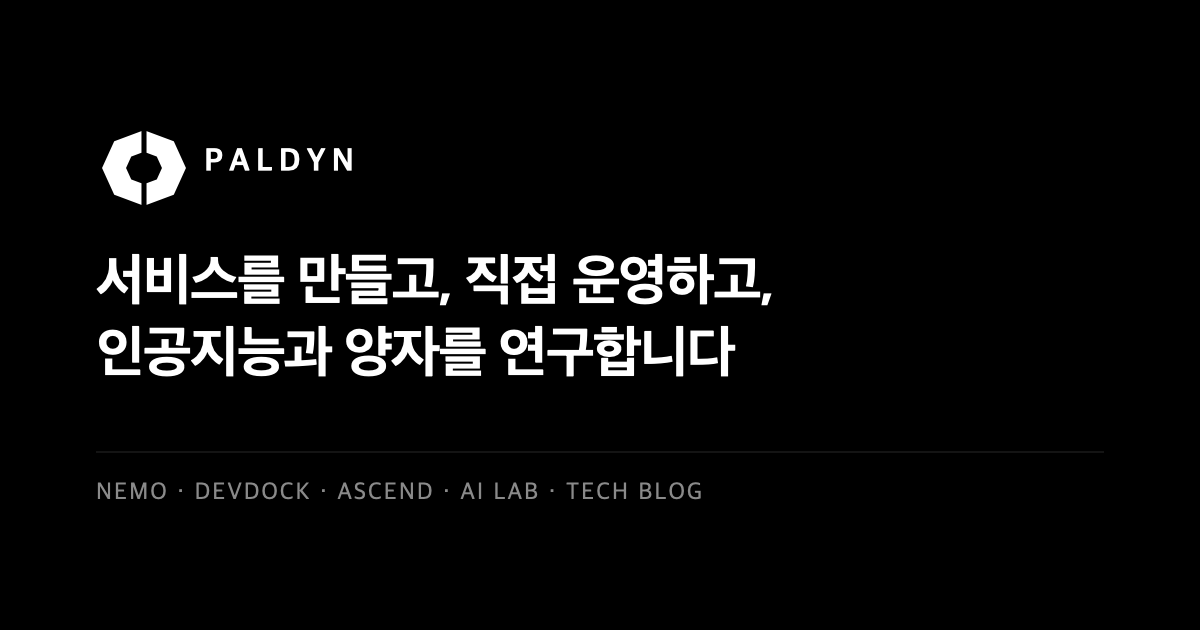
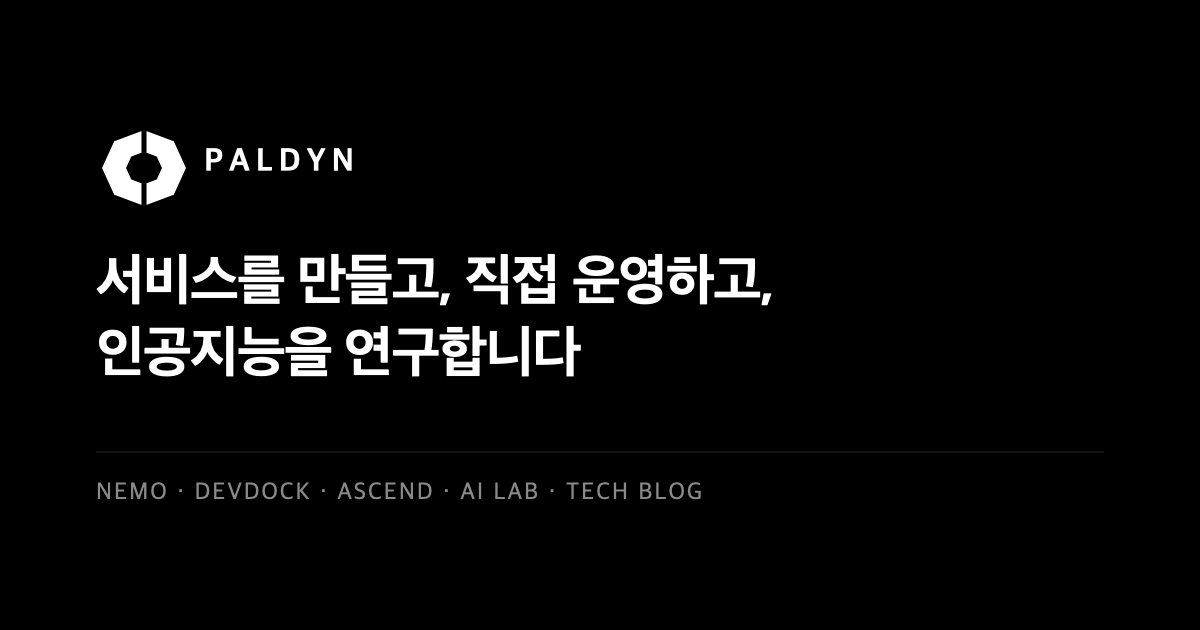
양자 언급 삭제 · nav에 AI Lab·Tech Blog 바로가기 · 스크롤 모션 복원 · 정렬선 통일
양자
- 아직 하는 일이 아니므로 title·og·twitter·JSON-LD·h1·회사 문단·팩트시트에서 전량 삭제.
  '보고 있는 주제' 블록은 항목이 인공지능 하나만 남아 목록이 성립하지 않으므로 블록째 제거.
  og.png도 새 문장으로 재생성

nav
- AI Lab ↗ / Tech Blog ↗ 를 nav에 직접 노출. 섹션 링크 4개와 성격이 다르므로
  1px 구분자 뒤에 외부 링크 그룹으로 분리

모션 — 로드 1회에서 스크롤 스크럽으로
- 배너: 절마다 클립 창을 만들고 그 안에서 밀려 올라온다(lineUp 720ms, 절 간 90ms 시차).
  받침 있는 한글은 em 박스를 꽉 채우므로 padding-block .14em / margin-block -.14em으로
  클립 창만 넓히고 레이아웃은 유지한다. 라벨 아래 전폭 1px 규칙선이 900ms에 걸쳐 그어진다
- 배너는 스크롤하면 -40px 물러나며 0.55로 가라앉는다(scroll(root block), 0→70svh)
- 인덱스 5행: 경계선이 그어지고(axisOut) 내용이 올라온다(revealSm). 되감으면 되감긴다
- 서비스 밴드: 상단 경계선이 먼저 나타나고 타일이 28px 아래에서 0.97 배율로 올라온다
- 팩트시트 6행도 스크럽 리빌
- 총 91개 애니메이션 중 82개가 스크롤·뷰 타임라인 구동이다(문서 타임라인 아님)

정렬
- 라벨의 브랜드 틱이 인라인이라 'PALDYN' 텍스트만 11px 밀려 있었다. 틱을 마진 밖으로
  걸어(margin-left -11px) 텍스트가 h1과 같은 x에서 시작하게 했다
- 실측 결과 5개 섹션 전부 — 라벨·제목·본문·인덱스·채널명 — 이 x=73 하나의 축에 선다

Changed region(s): [[0.2158, 0.5127, 0.6167, 0.6032]]

diff --git a/index.html b/index.html
@@ -3,7 +3,7 @@
 <head>
   <meta charset="UTF-8">
   <meta name="viewport" content="width=device-width, initial-scale=1.0">
-  <title>PALDYN — 서비스를 만들고, 직접 운영하고, 인공지능과 양자를 연구합니다</title>
+  <title>PALDYN — 서비스를 만들고, 직접 운영하고, 인공지능을 연구합니다</title>
   <meta name="description" content="팔딘이 직접 만들어 운영하는 다섯 개 — Nemo(노트·저널), DevDock(개발자 도구), Ascend(운동 기록, 비공개 테스트), AI Lab, Tech Blog.">
   <link rel="canonical" href="https://paldyn.com/">
   <meta name="theme-color" content="#ffffff" media="(prefers-color-scheme: light)">
@@ -12,14 +12,14 @@
   <meta property="og:type" content="website">
   <meta property="og:site_name" content="PALDYN">
   <meta property="og:url" content="https://paldyn.com/">
-  <meta property="og:title" content="PALDYN — 서비스를 만들고, 직접 운영하고, 인공지능과 양자를 연구합니다">
+  <meta property="og:title" content="PALDYN — 서비스를 만들고, 직접 운영하고, 인공지능을 연구합니다">
   <meta property="og:description" content="Nemo · DevDock · Ascend · AI Lab · Tech Blog. 팔딘이 직접 만들어 운영합니다.">
   <meta property="og:image" content="https://paldyn.com/assets/og.png">
   <meta property="og:image:width" content="1200">
   <meta property="og:image:height" content="630">
   <meta property="og:locale" content="ko_KR">
   <meta name="twitter:card" content="summary_large_image">
-  <meta name="twitter:title" content="PALDYN — 서비스를 만들고, 직접 운영하고, 인공지능과 양자를 연구합니다">
+  <meta name="twitter:title" content="PALDYN — 서비스를 만들고, 직접 운영하고, 인공지능을 연구합니다">
   <meta name="twitter:description" content="Nemo · DevDock · Ascend · AI Lab · Tech Blog. 팔딘이 직접 만들어 운영합니다.">
   <meta name="twitter:image" content="https://paldyn.com/assets/og.png">
 
@@ -52,9 +52,9 @@
     "alternateName": "팔딘",
     "url": "https://paldyn.com/",
     "logo": "https://paldyn.com/assets/favicon.png",
-    "description": "서비스를 만들어 직접 운영하고, 인공지능과 양자를 연구합니다",
+    "description": "서비스를 만들어 직접 운영하고, 인공지능을 연구합니다",
     "email": "contact@paldyn.com",
-    "knowsAbout": ["인공지능", "양자"],
+    "knowsAbout": ["인공지능"],
     "sameAs": [
       "https://nemo.paldyn.com/",
       "https://devdock.paldyn.com/",
@@ -123,7 +123,9 @@
       letter-spacing: 0.16em; line-height: 1; color: var(--text);
     }
 
-    .nav-links { display: flex; gap: 20px; list-style: none; }
+    .nav-links { display: flex; align-items: center; gap: 20px; list-style: none; }
+    .nav-sep { width: 1px; height: 12px; background: var(--border); }
+    .nav-ext span { font-size: var(--fs-1); opacity: 0.7; }
     .nav-links a {
       position: relative; font-size: var(--fs-2); font-weight: var(--fw-medium);
       letter-spacing: var(--ls-13); line-height: 1; color: var(--i-fg); text-decoration: none;
@@ -215,6 +217,11 @@
       display: grid; align-content: start;
     }
     .lede-grid { display: grid; grid-template-columns: repeat(12, 1fr); column-gap: var(--s5); }
+    .lede-rule {
+      grid-column: 1 / span 12; height: 1px; background: var(--border-subtle);
+      transform: scaleX(0); transform-origin: left; margin-bottom: var(--s7);
+    }
+    .js .lede-rule { animation: axisOut 900ms var(--e-mech) 60ms both; }
     .lede-copy { grid-column: 1 / span 10; }
 
     .lede-label {
@@ -223,7 +230,11 @@
       letter-spacing: var(--ls-caps); text-transform: uppercase; color: var(--text-mute);
       line-height: 1;
     }
-    .lede-label::before { content: ''; width: 1px; height: 12px; background: var(--brand); flex: none; transform-origin: center; }
+    /* 틱은 정렬선 밖에 걸고 라벨 텍스트는 h1과 같은 x에서 시작한다 */
+    .lede-label::before {
+      content: ''; width: 1px; height: 12px; margin-left: -11px;
+      background: var(--brand); flex: none; transform-origin: center;
+    }
     .js .lede-label { animation: fadeIn 320ms linear 200ms both; }
     .js .lede-label::before { animation: seamIgnite 200ms var(--e-mech) 160ms both; }
 
@@ -234,10 +245,17 @@
       letter-spacing: var(--ls-display); line-height: calc(1em + 4px);
       color: var(--text);
     }
-    .lede h1 span { display: block; }
-    .js .lede h1 .l1 { animation: riseIn 360ms var(--e-sig) 240ms both; }
-    .js .lede h1 .l2 { animation: riseIn 360ms var(--e-sig) 300ms both; }
-    .js .lede h1 .l3 { animation: riseIn 360ms var(--e-sig) 360ms both; }
+    /* 절마다 클립 창을 만들고 그 안에서 밀려 올라온다 —
+       받침 있는 한글은 em 박스를 꽉 채우므로 창만 넓히고 레이아웃은 유지한다. */
+    .lede h1 span {
+      display: block; overflow: hidden;
+      padding-block: 0.14em; margin-block: -0.14em;
+    }
+    .lede h1 span i { display: block; font-style: normal; }
+    .js .lede h1 span i { animation: lineUp 720ms var(--e-sig) both; }
+    .js .lede h1 .l1 i { animation-delay: 180ms; }
+    .js .lede h1 .l2 i { animation-delay: 270ms; }
+    .js .lede h1 .l3 i { animation-delay: 360ms; }
 
     .lede-sub {
       margin-top: var(--s5); max-width: var(--measure);
@@ -266,6 +284,7 @@
       background: var(--border-subtle); transform: scaleX(0); transform-origin: left;
     }
     .js .idx-row::before { animation: axisOut 300ms var(--e-mech) both; animation-delay: calc(480ms + var(--n, 0) * 60ms); }
+    /* 스크럽 지원 브라우저에서는 위 로드 시퀀스 대신 아래 @supports의 스크롤 스크럽이 이긴다 */
     .index-group .idx-row:last-child { border-bottom: 1px solid var(--border-subtle); }
     .js .idx-row > * { animation: riseIn 320ms var(--e-sig) both; animation-delay: calc(540ms + var(--n, 0) * 60ms); }
     @media (hover: hover) {
@@ -480,6 +499,10 @@
     @keyframes revealUp { from { opacity: 0; transform: translateY(20px) } to { opacity: 1; transform: none } }
     @keyframes revealSm { from { opacity: 0; transform: translateY(12px) } to { opacity: 1; transform: none } }
     @keyframes drawLine { to { stroke-dashoffset: 0 } }
+    @keyframes lineUp { from { transform: translateY(101%) } to { transform: translateY(0) } }
+    @keyframes lift { to { transform: translateY(-40px); opacity: 0.55 } }
+    @keyframes ruleIn { from { border-top-color: transparent } to { border-top-color: var(--border) } }
+    @keyframes tileIn { from { opacity: 0; transform: translateY(28px) scale(0.97) } to { opacity: 1; transform: none } }
     @keyframes bandOpen { from { clip-path: inset(50% 0 50% 0) } to { clip-path: inset(0 0 0 0) } }
     @keyframes wipeIn { from { clip-path: inset(0 100% 0 0) } to { clip-path: inset(0 0 0 0) } }
 
@@ -489,24 +512,42 @@
       .js .reveal-title { animation-name: revealUp; animation-range: entry 12% cover 30%; }
       .js .reveal-card { animation-name: revealUp; animation-range: entry 4% cover 38%; }
 
-      .js .res-item::before { animation: axisOut linear both; animation-timeline: view(block); animation-range: entry 10% entry 60%; }
+      /* 배너 — 스크롤하면 무게를 남기며 뒤로 물러난다 */
+      .js .lede-copy { animation: lift linear both; animation-timeline: scroll(root block); animation-range: 0 70svh; }
+
+      /* 인덱스 5행 — 선이 그어지고 내용이 올라온다. 되감으면 되감긴다 */
+      .js .idx-row::before { animation: axisOut linear both; animation-timeline: view(block); animation-range: entry 0% entry 55%; }
+      .js .idx-row > * { animation: revealSm linear both; animation-timeline: view(block); animation-range: entry 10% entry 75%; }
+
+      /* 서비스 밴드 — 상단 경계선이 먼저 그어지고 타일이 뒤따른다 */
+      .js .prod { animation: ruleIn linear both; animation-timeline: view(block); animation-range: entry 0% entry 50%; }
+      .js .tile { animation: tileIn linear both; animation-timeline: view(block); animation-range: entry 5% cover 42%; }
       .js .tile svg path { animation: drawLine linear both; animation-timeline: view(block); animation-range: entry 20% cover 55%; }
+
+      .js .res-item::before { animation: axisOut linear both; animation-timeline: view(block); animation-range: entry 10% entry 60%; }
+      .js .facts dt, .js .facts dd { animation: revealSm linear both; animation-timeline: view(block); animation-range: entry 6% entry 70%; }
+
       .contact { animation: bandOpen linear both; animation-timeline: view(block); animation-range: entry 0% entry 92%; }
     }
 
     /* ══ 모션 축소 ══════════════════════════════════════════════════════ */
     @media (prefers-reduced-motion: reduce) {
       .js .lede-label, .js .lede-label::before, .js .lede h1 span,
-      .js .lede-sub, .js .idx-row::before, .js .idx-row > *,
+      .js .lede-sub, .js .idx-row::before, .js .idx-row > *, .js .lede-rule,
+      .js .lede h1 span i, .js .lede-copy, .js .prod, .js .tile,
+      .js .facts dt, .js .facts dd,
       .js .reveal, .js .res-item::before, .js .tile svg path, .contact {
         animation: none !important; opacity: 1 !important; transform: none !important;
         clip-path: none !important; stroke-dashoffset: 0 !important;
       }
-      .idx-row::before, .res-item::before { transform: scaleX(1) !important; }
+      .idx-row::before, .res-item::before, .lede-rule { transform: scaleX(1) !important; }
       .contact { clip-path: inset(0) !important; }
     }
     [data-motion="reduced"] .lede-label, [data-motion="reduced"] .lede-label::before,
     [data-motion="reduced"] .lede h1 span,
+    [data-motion="reduced"] .lede-rule, [data-motion="reduced"] .lede h1 span i,
+    [data-motion="reduced"] .lede-copy, [data-motion="reduced"] .prod,
+    [data-motion="reduced"] .tile, [data-motion="reduced"] .facts dt, [data-motion="reduced"] .facts dd,
     [data-motion="reduced"] .lede-sub, [data-motion="reduced"] .idx-row::before,
     [data-motion="reduced"] .idx-row > *, [data-motion="reduced"] .reveal,
     [data-motion="reduced"] .res-item::before, [data-motion="reduced"] .tile svg path,
@@ -514,7 +555,8 @@
       animation: none !important; opacity: 1 !important; transform: none !important;
       clip-path: none !important; stroke-dashoffset: 0 !important;
     }
-    [data-motion="reduced"] .idx-row::before, [data-motion="reduced"] .res-item::before { transform: scaleX(1) !important; }
+    [data-motion="reduced"] .idx-row::before, [data-motion="reduced"] .res-item::before,
+    [data-motion="reduced"] .lede-rule { transform: scaleX(1) !important; }
     [data-motion="reduced"] .contact { clip-path: inset(0) !important; }
 
     @media (prefers-reduced-motion: no-preference) {
@@ -613,6 +655,9 @@
       <li><a class="underline" href="#research" data-section="2">Research</a></li>
       <li><a class="underline" href="#company" data-section="3">Company</a></li>
       <li><a class="underline" href="#contact" data-section="4">Contact</a></li>
+      <li class="nav-sep" aria-hidden="true"></li>
+      <li><a class="underline nav-ext" href="https://ailab.paldyn.com/" target="_blank" rel="noopener">AI Lab <span aria-hidden="true">↗</span></a></li>
+      <li><a class="underline nav-ext" href="https://techblog.paldyn.com/" target="_blank" rel="noopener">Tech Blog <span aria-hidden="true">↗</span></a></li>
     </ul>
     <div class="nav-right">
       <div class="odo" aria-hidden="true"><div class="odo-track" id="odoTrack">
@@ -646,9 +691,10 @@
   <!-- ══ 00 — 한 문장과 자산 인덱스 ═══════════════════════════════════ -->
   <section class="lede" aria-labelledby="lede-h1">
     <div class="wrap lede-grid">
+      <div class="lede-rule" aria-hidden="true"></div>
       <div class="lede-copy">
         <p class="lede-label">PALDYN</p>
-        <h1 id="lede-h1"><span class="l1">서비스를 만들고,</span> <span class="l2">직접 운영하고,</span> <span class="l3">인공지능과 양자를 연구합니다</span></h1>
+        <h1 id="lede-h1"><span class="l1"><i>서비스를 만들고,</i></span> <span class="l2"><i>직접 운영하고,</i></span> <span class="l3"><i>인공지능을 연구합니다</i></span></h1>
         <p class="lede-sub">노트, 개발자 도구, 운동 기록 앱, AI 동향, 개발 기록. 지금 있는 것은 이 다섯 개입니다.</p>
       </div>
 
@@ -799,10 +845,6 @@
             <p class="reveal" style="margin-top: var(--s6)">새 모델이 나오면 무엇이 달라지는지 확인하고, 정리한 내용을 올립니다.</p>
             <p class="reveal">서비스를 만들며 부딪힌 문제와 해결 방법도 그대로 적어 둡니다.</p>
 
-            <div class="topics reveal">
-              <h3>보고 있는 주제</h3>
-              <ul><li>인공지능</li><li>양자</li></ul>
-            </div>
           </div>
 
           <div class="research-r">
@@ -844,7 +886,7 @@
             <p class="eyebrow tick"><span class="section-index">03</span> &nbsp;COMPANY</p>
             <h2 id="company-h2" class="section-title reveal reveal-title">팔딘이 하는 일</h2>
             <p class="reveal" style="margin-top: var(--s6)">팔딘은 만든 서비스를 넘기지 않고, 출시한 뒤에도 계속 고치며 운영합니다.</p>
-            <p class="reveal">인공지능과 양자는 서비스와 별개로 계속 읽고 정리합니다.</p>
+            <p class="reveal">인공지능은 서비스와 별개로 계속 읽고 정리합니다.</p>
           </div>
 
           <div class="company-r reveal">
@@ -852,7 +894,6 @@
               <dt>하는 일</dt><dd>서비스 개발과 운영, 기술 연구</dd>
               <dt>운영 중</dt><dd>Nemo, DevDock, AI Lab, Tech Blog</dd>
               <dt>비공개 테스트</dt><dd>Ascend (iOS · Android)</dd>
-              <dt>연구 주제</dt><dd>인공지능, 양자</dd>
               <dt>웹</dt><dd>paldyn.com</dd>
               <dt>연락</dt><dd>contact@paldyn.com · support@paldyn.com</dd>
             </dl>
